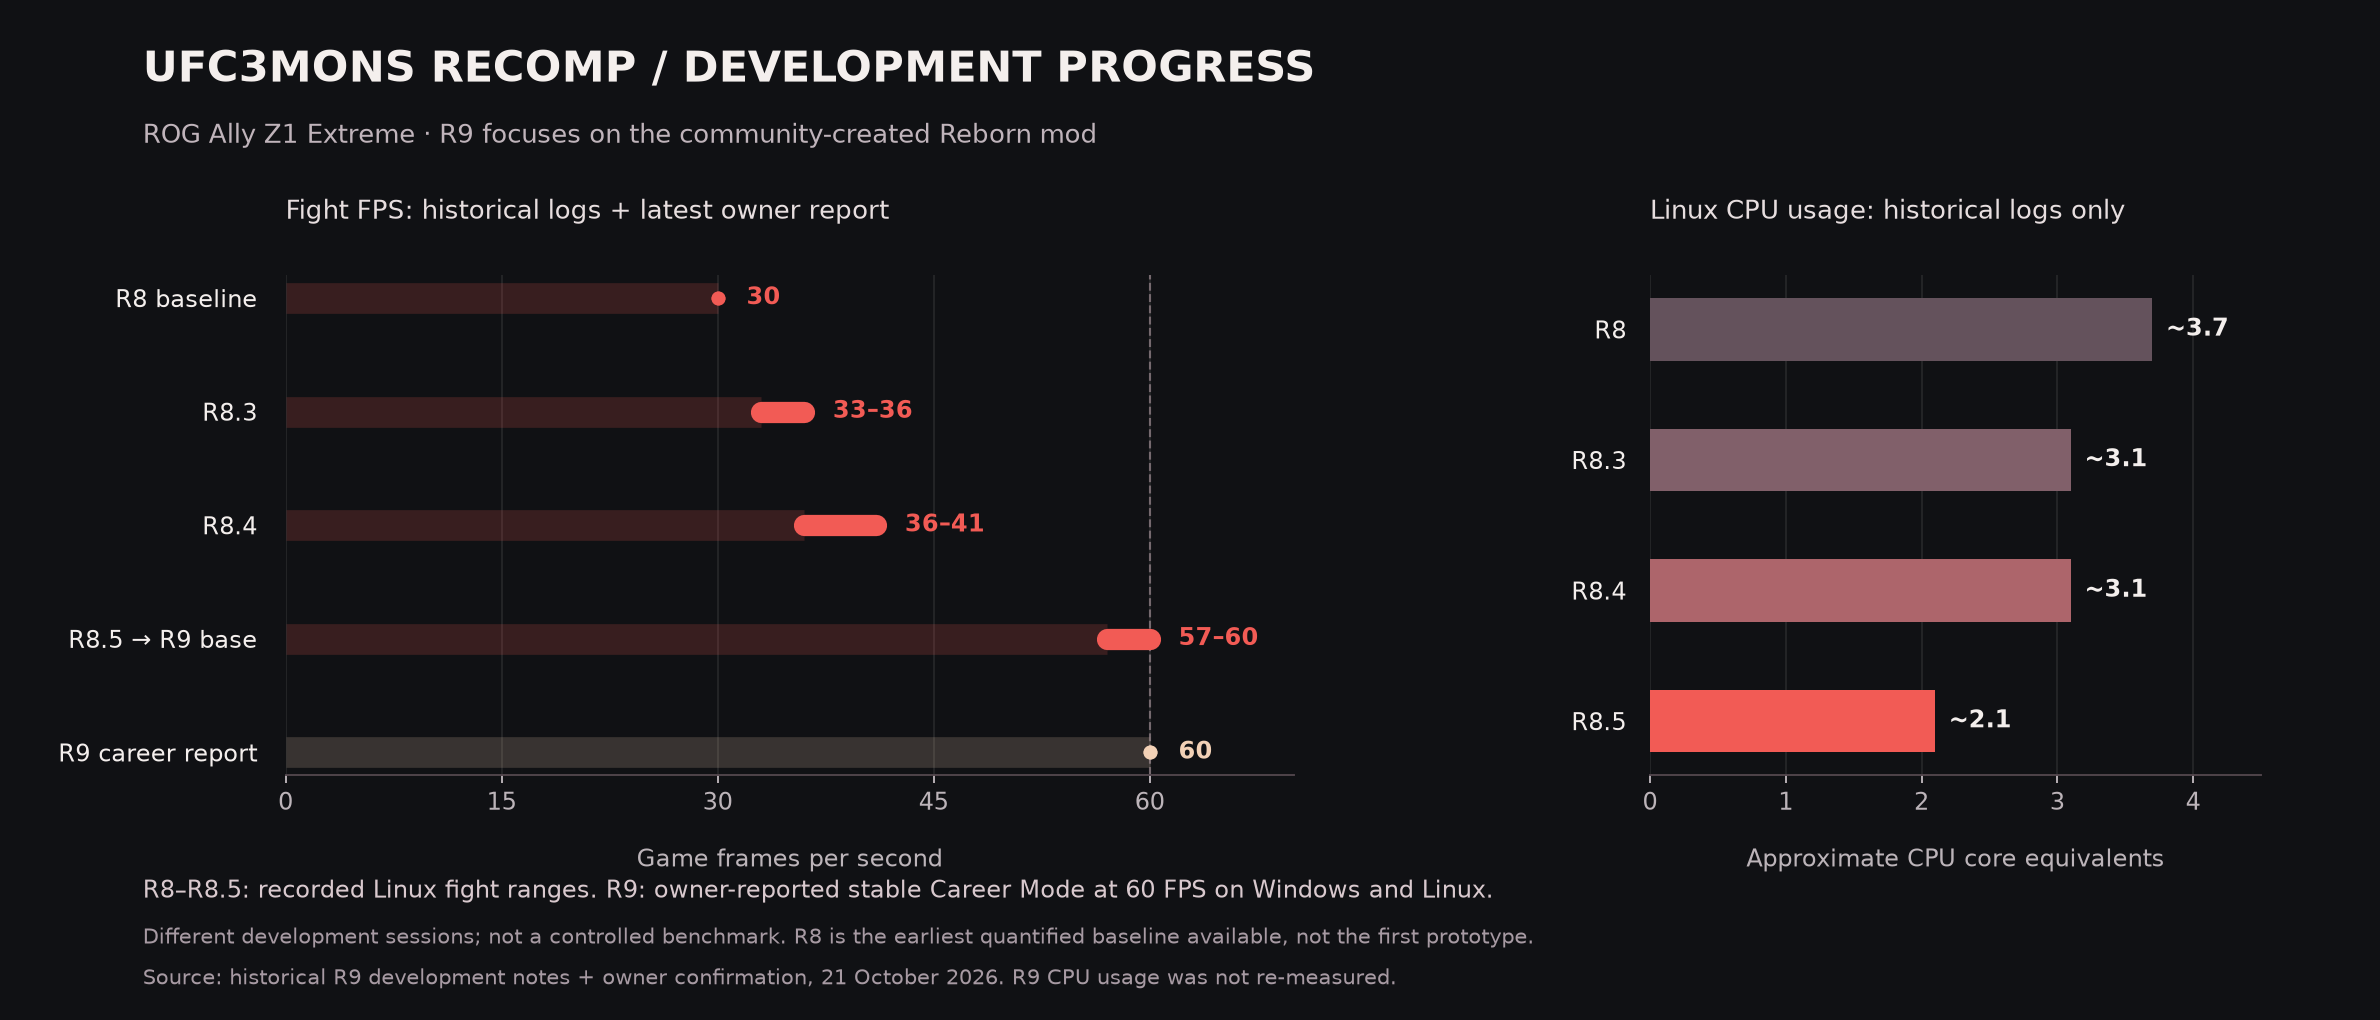
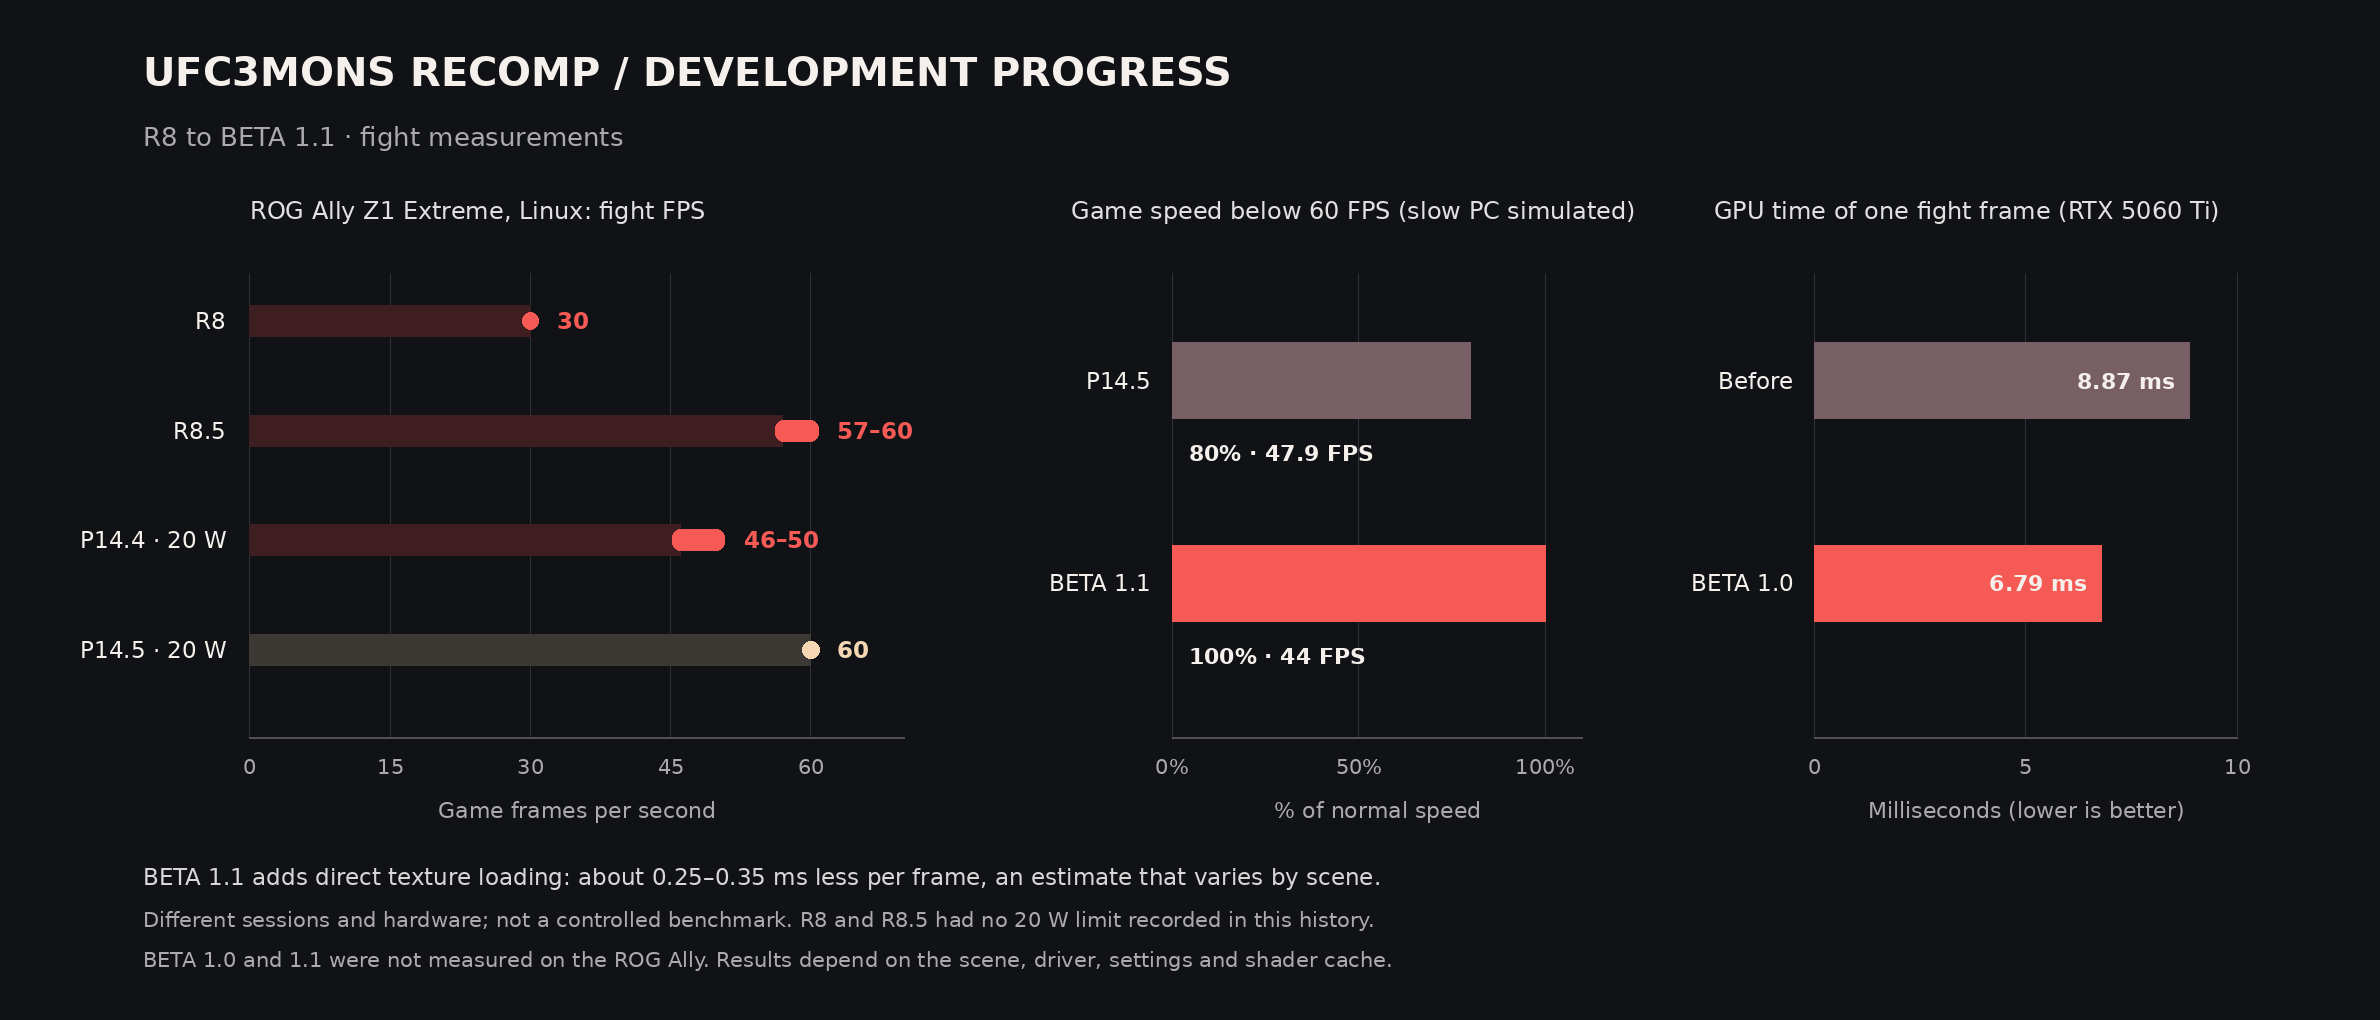
Update performance chart to BETA 1.1

diff --git a/index.html b/index.html
@@ -22,6 +22,6 @@
 <article class="row"><span class="number">02</span><h3>ROG Ally Z1 Extreme</h3><p>Reborn Career Mode owner-tested at <strong>60 FPS</strong> on Windows and Linux, with no gameplay bugs or texture errors observed in those sessions. Current engine timing stays at 60 FPS; broader validation continues.</p></article>
 <article class="row"><span class="number">03</span><h3>Original edition: open issue</h3><p>Original-game Career Mode still has graphics bugs, including an invisible opponent. Fixes are planned for future builds; R9 primarily focuses on Reborn.</p></article>
 <article class="row"><span class="number">04</span><h3>Source &amp; next steps</h3><p>Launcher, integration code and SDK changes are public. These sources do not yet reproduce R9 alone. Read the <a href="https://github.com/monscriser/UFC3MONS/blob/main/docs/DEPENDENCIAS.md">build limitations</a> or <a href="https://github.com/monscriser/UFC3MONS/issues">report an issue</a>.</p></article>
-</div><figure class="performance-figure"><img src="media/performance-r9.png" width="2380" height="1020" loading="lazy" alt="Historical Linux fight FPS increased from 30 in R8 to 57–60 in R8.5; CPU usage fell from about 3.7 to 2.1 core equivalents. Separate R9 Reborn Career report: 60 FPS on Windows and Linux."><figcaption>Historical development observations and the latest owner report, not a controlled benchmark. <a href="https://github.com/monscriser/UFC3MONS/blob/main/docs/RELEASE-R9.md">Full R9 release notes ↗</a></figcaption></figure><p class="notice">Development preview, not a validated stable release. Game data, generated game code, executables and personal saves are not distributed through this source repository. Console vsync remains enabled; the current shader mode is synchronous.</p></section></main>
+</div><figure class="performance-figure"><img src="media/performance-r9.png" width="2380" height="1020" loading="lazy" alt="Linux fight FPS on the ROG Ally rose from 30 in R8 to 60 in P14.5 at 20 W. With a slow PC simulated, game speed rose from 80% in P14.5 to 100% in BETA 1.1. GPU time of a fight frame fell from 8.87 to 6.79 ms in BETA 1.0."><figcaption>Measurements from different sessions and hardware, not a controlled benchmark.</figcaption></figure><p class="notice">Development preview, not a validated stable release. Game data, generated game code, executables and personal saves are not distributed through this source repository. Console vsync remains enabled; the current shader mode is synchronous.</p></section></main>
 <footer><div class="wrap"><p>UFC3MONS community project · Unofficial and not affiliated with the original game's developers, publishers or trademark owners. Game names and content belong to their respective owners. Own code: MIT; third-party code retains its licenses.</p><span><a href="https://github.com/monscriser/UFC3MONS#readme">Documentation</a> · <a href="https://github.com/monscriser/UFC3MONS/blob/main/THIRD_PARTY_NOTICES.md">Credits &amp; licenses</a></span></div></footer>
 </body></html>

diff --git a/README.md b/README.md
@@ -87,9 +87,9 @@ verified on PC and on the Ally.
 Performance depends on the scene, hardware, driver, settings and shader-cache state. Static recompilation alone does not
 guarantee higher performance than an emulator.
 
-![Development FPS and CPU progress (R8–R9 history)](media/performance-r9.png)
+![Development progress: fight FPS, game speed below 60 FPS and GPU time (R8 to BETA 1.1)](media/performance-r9.png)
 
-*Earlier R8–R9 history: Linux development observations on the ROG Ally before the P series.*
+*Measurements from different sessions and hardware, not a controlled benchmark. BETA 1.0 and 1.1 were not measured on the ROG Ally.*
 
 ## Features
 
